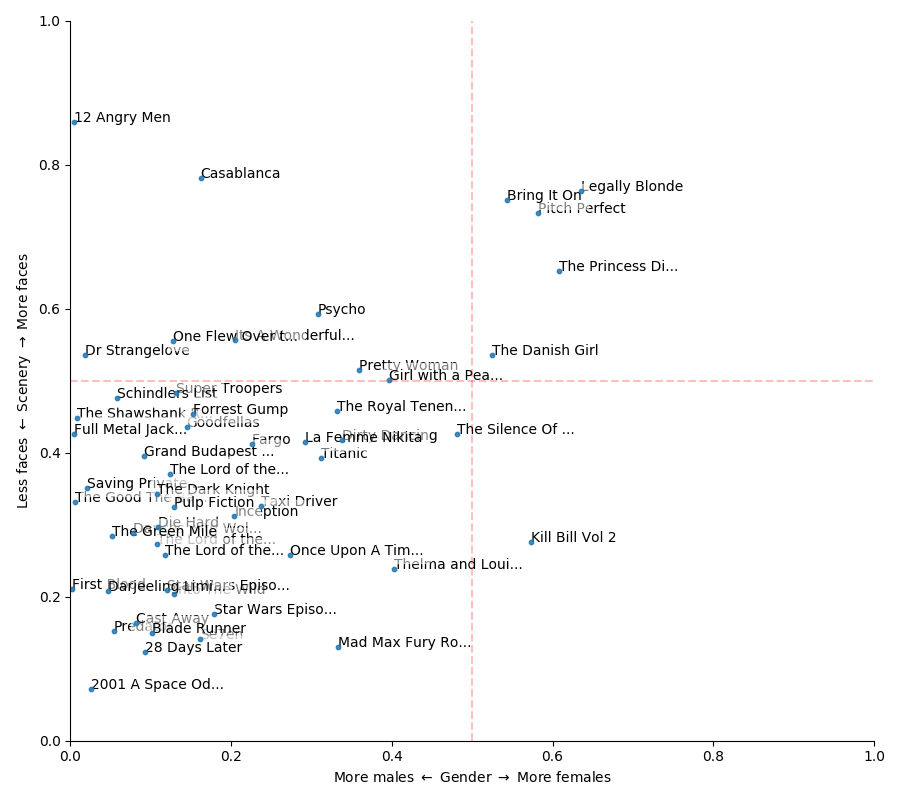
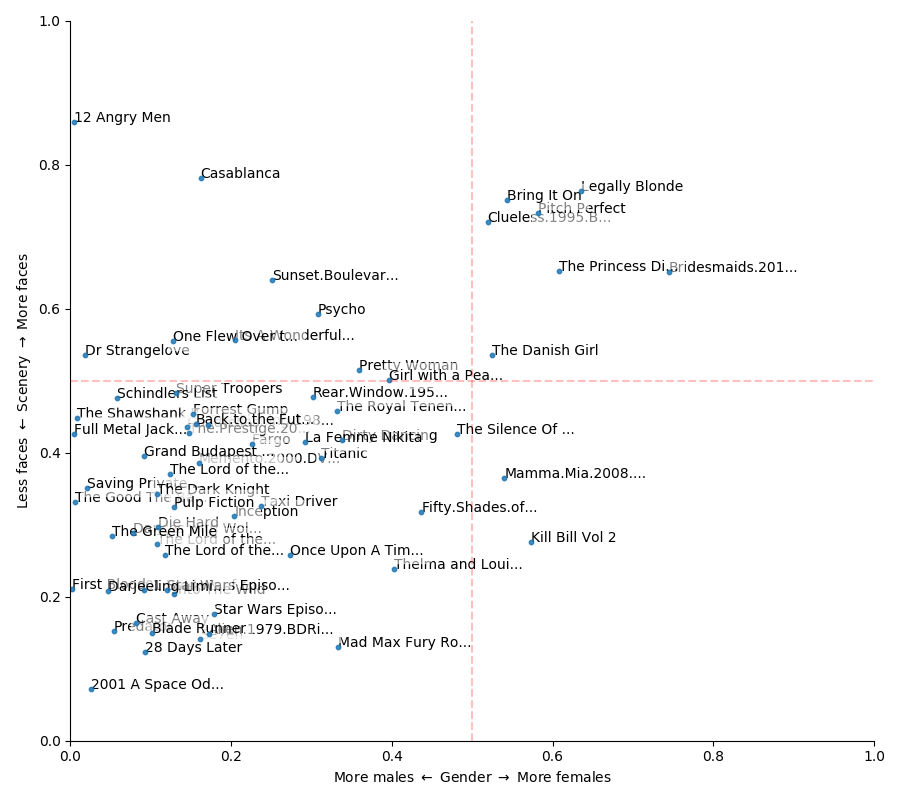
Added new images

diff --git a/pipeline.py b/pipeline.py
@@ -10,7 +10,7 @@ import glob, os, joblib
 import random
 
 args = {
-    "--force" : True,
+    "--force" : False,
 }
 
 
@@ -45,7 +45,7 @@ def func_analyze(f):
 
 if __name__ == "__main__":
 
-    '''
+    
     func = joblib.delayed(func_frames)
     with joblib.Parallel(4) as MP:
         MP(func(x) for x in f_queue())
@@ -55,7 +55,7 @@ if __name__ == "__main__":
         MP(func(x) for x in f_queue())
 
     map(func_predict, f_queue())
-    '''
+    
     
     func = joblib.delayed(func_analyze)
     with joblib.Parallel(-1) as MP:

diff --git a/plot_ratio.py b/plot_ratio.py
@@ -12,14 +12,20 @@ dfx = pd.read_csv("docs/source_movies.csv").set_index('source')
 df['f_movie'] = df['f_movie'].apply(os.path.basename)
 df = df.set_index('f_movie')
 df['name'] = dfx['name']
-#df = df.set_index('name')
 
 def func(x):
+    if type(x)==float: return x
     if len(x)>18: x=x[:15]+'...'
     return x
 
 df['name'] = df['name'].apply(func)
+
+idx = pd.isnull(df.name)
+df.ix[idx, 'name'] = df.index[idx]
+
 df = df.set_index('name')
+
+
 
 
 xkey = 'fraction_female_or_mixed_screentime'
